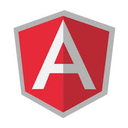
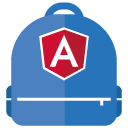
## 1.0.0 - 2018-02-07
* Change a new Icon for this extension. :-)

diff --git a/CHANGELOG.md b/CHANGELOG.md
@@ -2,6 +2,10 @@
 
 All notable changes to the "angular-extension-pack" extension pack will be documented in this file.
 
+## 1.0.0 - 2018-02-07
+
+* Change a new Icon for this extension. :-)
+
 ## 0.9.5 - 2018-01-30
 
 * Updated README.md for many extensions.
